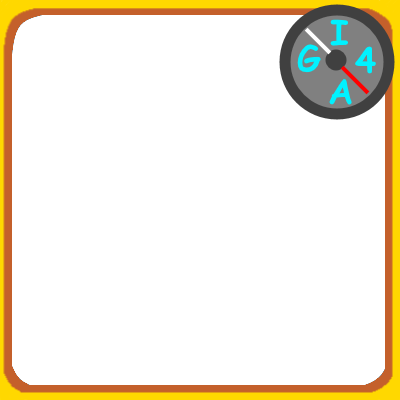
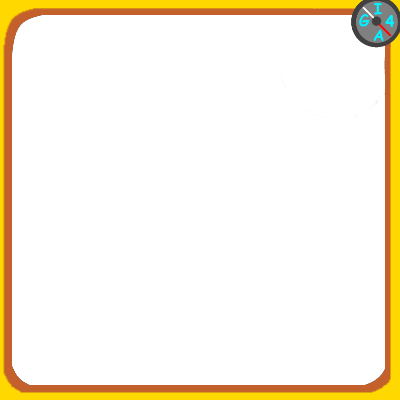
good old changes
moved map to separate canvas, fixed minimap vision, removed nick rendering for islands

Changed region(s): [[0.69, 0.0, 1.0, 0.96]]

diff --git a/Client/js/index.js b/Client/js/index.js
@@ -31,7 +31,7 @@
             y: 0
         },
     }
-    let protocol = (location.port === "")? "wss" : "ws"
+    let protocol = (location.port === "") ? "wss" : "ws"
     var ws = new Connection(`${protocol}://${document.domain}:${location.port}/game`)
     let entobj = {}
     ws.onstate = (ent) => {
@@ -67,6 +67,7 @@
         ],
         paraNeko: new Image(),
         island: new Image(),
+        box: new Image()
     }
 
     sprites.ship.src = "img/ship.png"
@@ -81,9 +82,9 @@
     sprites.border.src = "img/border.png"
     sprites.teams[0].src = "img/team1.png"
     sprites.teams[1].src = "img/team2.png"
-    sprites.teams[2].src = "img/team3.png"
     sprites.paraNeko.src = "img/para neko.png"
     sprites.island.src = "img/island.png"
+    sprites.box.src - "img/gold.png"
 
     var lastMousePosition = {
         x: 0, y: 0
@@ -226,16 +227,18 @@
                         ent.pos.y - Camera.pos.y + window.innerHeight / 2 + hpbaroffset.y, 100, 10)
                     ctx.drawImage(sprites.teams[ent.team], ent.pos.x - Camera.pos.x + window.innerWidth / 2 + hpbaroffset.x - 50,
                         ent.pos.y - Camera.pos.y + window.innerHeight / 2 + hpbaroffset.y - 27.5, 40, 40)
-                    ctx.fillStyle = "rgba(0, 0, 0, 0.5)"
-                    ctx.fillRect(ent.pos.x - Camera.pos.x + window.innerWidth / 2 + hpbaroffset.x,
-                        ent.pos.y - Camera.pos.y + window.innerHeight / 2 + hpbaroffset.y - 30, 100, 15)
-                    ctx.fillStyle = "white"
-                    ctx.strokeStyle = "white"
-                    ctx.font = "15px helvetica"
-                    let n = ent.nickName
-                    ctx.fillText(n,
-                        ent.pos.x - Camera.pos.x + window.innerWidth / 2 + hpbaroffset.x,
-                        ent.pos.y - Camera.pos.y + window.innerHeight / 2 + hpbaroffset.y - 30 + 12)
+                    if (ent.type == "Player") {
+                        ctx.fillStyle = "rgba(0, 0, 0, 0.5)"
+                        ctx.fillRect(ent.pos.x - Camera.pos.x + window.innerWidth / 2 + hpbaroffset.x,
+                            ent.pos.y - Camera.pos.y + window.innerHeight / 2 + hpbaroffset.y - 30, 100, 15)
+                        ctx.fillStyle = "white"
+                        ctx.strokeStyle = "white"
+                        ctx.font = "15px helvetica"
+                        let n = ent.nickName
+                        ctx.fillText(n,
+                            ent.pos.x - Camera.pos.x + window.innerWidth / 2 + hpbaroffset.x,
+                            ent.pos.y - Camera.pos.y + window.innerHeight / 2 + hpbaroffset.y - 30 + 12)
+                    }
                 }
             }
         }
@@ -259,8 +262,6 @@
         let leftSprite = sprites.buttonL
         let rightSprite = sprites.buttonR
 
-        //console.log(lastMousePosition, leftButtonCoords)
-        //console.log(highlight)
         if (lastMousePosition.x >= leftButtonCoords.x && lastMousePosition.x <= leftButtonCoords.x + 0.05 * canv.width &&
             lastMousePosition.y >= leftButtonCoords.y && lastMousePosition.y <= leftButtonCoords.y + 0.05 * canv.width) {
             leftSprite = sprites.buttonLhover
@@ -273,7 +274,6 @@
             }, 100)
         }
 
-        //console.log(lastMousePosition, leftButtonCoords.x + 0.1 * canv.width)
         ctx.fillStyle = "white"
         if (lastMousePosition.x >= leftButtonCoords.x + 0.1 * canv.width && lastMousePosition.x <= leftButtonCoords.x + 0.05 * canv.width + 0.1 * canv.width &&
             lastMousePosition.y >= leftButtonCoords.y && lastMousePosition.y <= leftButtonCoords.y + 0.05 * canv.width) {
@@ -300,28 +300,31 @@
     }
 
     function renderMinimap() {
-        ctx.strokeStyle = "black"
-        ctx.lineWidth = 10
-        ctx.fillStyle = "#4169E1"
+        let mapCanv = document.getElementById('mapCanvas')
+        let mctx = mapCanv.getContext('2d')
+
+        mctx.strokeStyle = "black"
+        mctx.lineWidth = 5
         let size = 0.25 * canv.width
 
-        ctx.fillRect(0, canv.height - size, size, size)
+        mapCanv.width = size
+        mapCanv.height = size
 
-        // let myTeam = entities.filter(ent => ent.team == playerTeam)
-        let myTeam = entities.filter(ent => ent.type === "Player")
+        mctx.fillStyle = "rgb(65, 105, 225)"
+        mctx.fillRect(0, 0, size, size)
+        let visionRadius = 0.05 * canv.width
 
-        let vision = []
-        //ctx.transform(1, 0, 0, -1, 0, canv.height)
-        for (let ent of myTeam) {
+        let myTeam = entities.filter(ent => ent.team == entities.filter(ent => ent.id == ws.id)[0].team).map(ent => ent.pos)
+        for (let pos of myTeam) {
             let mapCoords = {
-                x: (ent.pos.x + mapSize.x) / mapSize.x * size / 2,
-                y: (ent.pos.y + mapSize.y) / mapSize.y * size / 2
+                x: (pos.x + mapSize.x) / mapSize.x * size / 2,
+                y: (pos.y + mapSize.y) / mapSize.y * size / 2
             }
-            vision.push(mapCoords)
-            ctx.fillStyle = "rgb(135, 206, 235)"
-            ctx.beginPath()
-            ctx.ellipse(mapCoords.x, mapCoords.y + canv.height - size, 40, 40, 0, 0, Math.PI * 2)
-            ctx.fill()
+
+            mctx.fillStyle = "rgb(95, 135, 255)"
+            mctx.beginPath()
+            mctx.ellipse(mapCoords.x, mapCoords.y, visionRadius, visionRadius, 0, 0, 2 * Math.PI)
+            mctx.fill()
         }
 
 
@@ -330,38 +333,34 @@
                 x: (ent.pos.x + mapSize.x) / mapSize.x * size / 2,
                 y: (ent.pos.y + mapSize.y) / mapSize.y * size / 2
             }
-            let good = vision.filter(coord => distance(mapCoords, coord) <= 40)
-            if (good.length > 0 && ent.type != 'bullet') {
-                ctx.save()
-                ctx.translate(mapCoords.x, mapCoords.y + canv.height - size)
-                ctx.rotate(ent.angle)
+            let good = myTeam.filter(pos => distance(pos, ent.pos) <= visionRadius / size * mapSize.x * 2)
+            if (ent.type == "Island" || good.length > 0) {
+                mctx.save()
+                mctx.translate(mapCoords.x, mapCoords.y)
+                mctx.rotate(ent.angle)
 
-                ctx.lineWidth = 1
+                mctx.lineWidth = 1
                 if (ent.id == ws.id) {
-                    ctx.lineWidth = 4
+                    mctx.lineWidth = 4
                 }
-                ctx.strokeStyle = "black"
-                ctx.fillStyle = (['blue', 'red', 'green'])[ent.team]
-                ctx.fillRect(-5, -5, ent.size.x / 10, ent.size.y / 10)
-                ctx.strokeRect(-5, -5, ent.size.x / 10, ent.size.y / 10)
-                ctx.restore()
+                mctx.strokeStyle = "black"
+                mctx.fillStyle = (['blue', 'red'])[ent.team]
+                mctx.fillRect(-ent.size.x / 20, -ent.size.y / 20, ent.size.x / 10, ent.size.y / 10)
+                mctx.strokeRect(-ent.size.x / 20, -ent.size.y / 20, ent.size.x / 10, ent.size.y / 10)
+                mctx.restore()
             }
         }
-        ctx.drawImage(sprites.minimap, 0, canv.height - size, size, size)
+        mctx.drawImage(sprites.minimap, 0, 0, size, size)
     }
 
     function renderGold() {
         ctx.strokeStyle = "black"
         ctx.lineWidth = 10
-        ctx.fillStyle = "rgb(100, 100, 100)"
 
         let menuCoords = {
             x: 0.8 * canv.width,
             y: 0.8 * canv.height
         }
-
-        //ctx.drawImage(sprites.border, 0, 0, canv.width, canv.height)
-
         ctx.fillStyle = "black"
         ctx.font = `${Math.round(0.05 * canv.height)}px helvetica`
         let textCoords = {
@@ -376,7 +375,6 @@
         canv.width = window.innerWidth
         canv.height = window.innerHeight
 
-        //ctx.transform()
         ctx.clearRect(0, 0, canv.width, canv.height)
         renderField()
         renderEntities()

diff --git a/Client/index.html b/Client/index.html
@@ -18,5 +18,6 @@
         
         <canvas id="canv"></canvas>
         <button id="skillbtn" class="button"><img src="img/skills.png"></img></button>
+        <canvas id="mapCanvas"></canvas>
     </body>
 </html>

diff --git a/Client/css/style.css b/Client/css/style.css
@@ -5,4 +5,12 @@ html, body {
     border: 0;
     overflow: hidden;
     display: block;
+    z-index: 1;
+}
+
+#mapCanvas {
+    z-index: 0;
+    bottom: 0%;
+    left: 0%;
+    position: fixed;
 }
